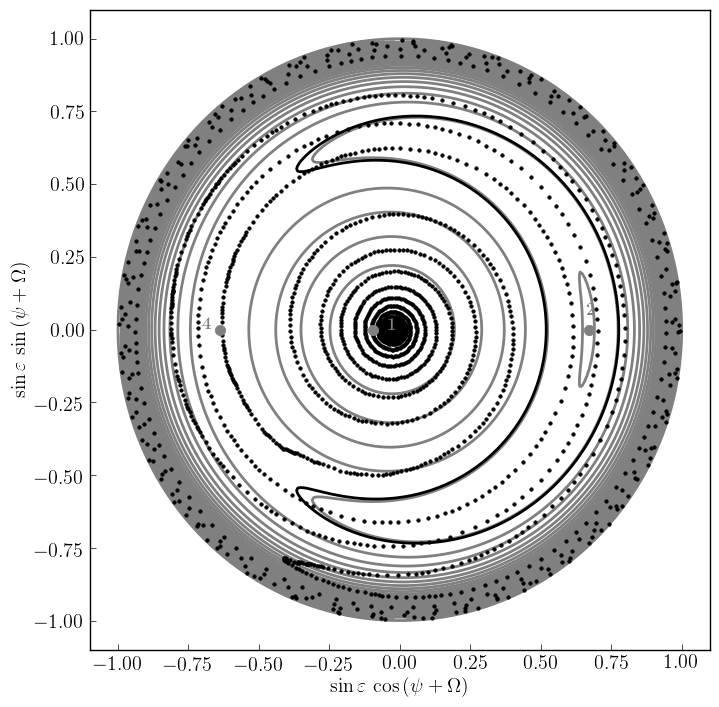
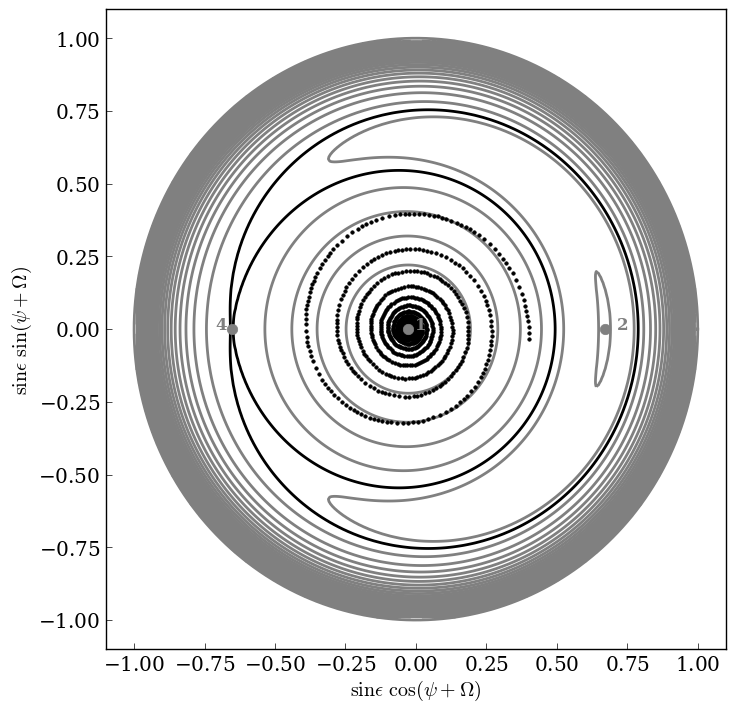
made some tweaks to cassini_ham plot

Changed region(s): [[0.0, 0.0, 1.0, 0.9958], [0.7038, 0.6535, 0.7344, 0.6846]]

diff --git a/examples/cassini/makeplot.py b/examples/cassini/makeplot.py
@@ -2,8 +2,8 @@ import numpy as np
 import matplotlib.pyplot as plt
 import vplot
 import scipy.signal as sig
-plt.rcParams["text.usetex"]=True
-plt.rcParams["text.latex.unicode"]=True
+#plt.rcParams["text.usetex"]=True
+#plt.rcParams["text.latex.unicode"]=True
 
 out = vplot.GetOutput()
 
@@ -91,15 +91,15 @@ y1 = -np.sin(obl1)
 
 plt.figure(figsize=(8,8))
 plt.contour(Y,X,H.T,50,colors='0.5')
-plt.contour(Y,X,H.T,levels=[1.0067*H4],colors='k')
+plt.contour(Y,X,H.T,levels=[1.00005*H4],colors='k')
 plt.plot(xc,yc,'-',color='0.5')
-plt.plot(xobl[out.b.Time>400e3],yobl[out.b.Time>400e3],'k.')
-plt.plot([y2+0.01,y4+0.025,y1-0.09],[0,0,0],'.',ms=15,color='0.5')
-plt.text(y2,0.05,r'\bf{2}',color='0.5',fontweight='bold')
-plt.text(y4-0.04,0.0,r'\bf{4}',color='0.5',fontweight='bold')
-plt.text(y1-0.04,0.0,r'\bf{1}',color='0.5',fontweight='bold')
-plt.xlabel(r'$\sin{\varepsilon}$ $\cos{(\psi+\Omega)}$')
-plt.ylabel(r'$\sin{\varepsilon}$ $\sin{(\psi+\Omega)}$')
+plt.plot(xobl[out.b.Time>500e3],yobl[out.b.Time>500e3],'k.')
+plt.plot([y2+0.01,y4+0.01,y1-0.025],[0,0,0],'.',ms=15,color='0.5')
+plt.text(y2+0.05,0.0,r'2',color='0.5',fontweight='bold')
+plt.text(y4-0.05,0.0,r'4',color='0.5',fontweight='bold')
+plt.text(y1,0.0,r'1',color='0.5',fontweight='bold')
+plt.xlabel(r'$\sin{\epsilon}$ $\cos{(\psi+\Omega)}$')
+plt.ylabel(r'$\sin{\epsilon}$ $\sin{(\psi+\Omega)}$')
 plt.xlim(-1.1,1.1)
 plt.ylim(-1.1,1.1)
 plt.savefig('cassini_ham.png')
